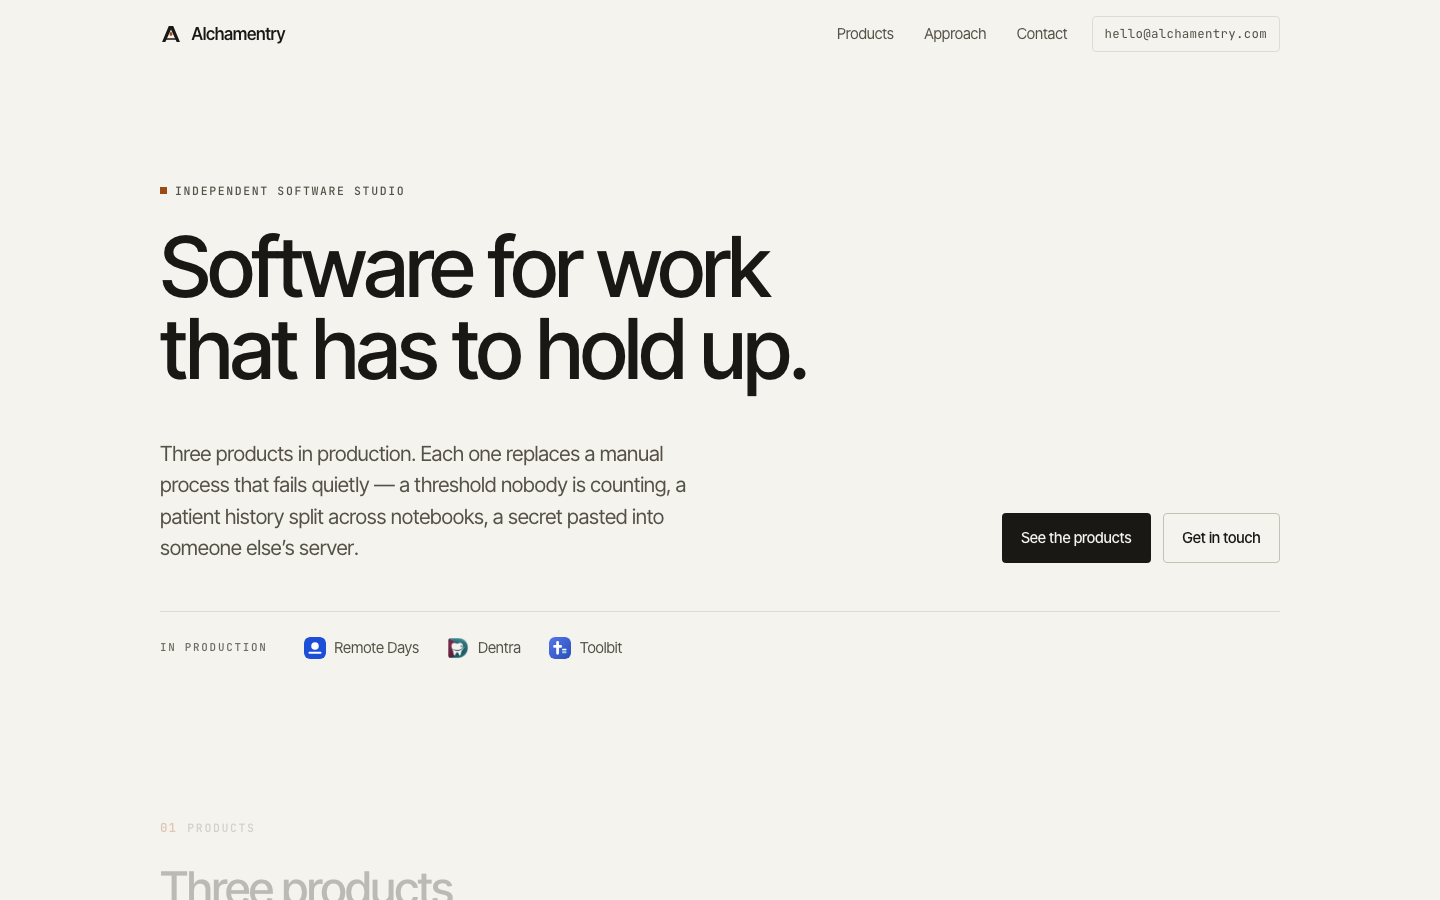
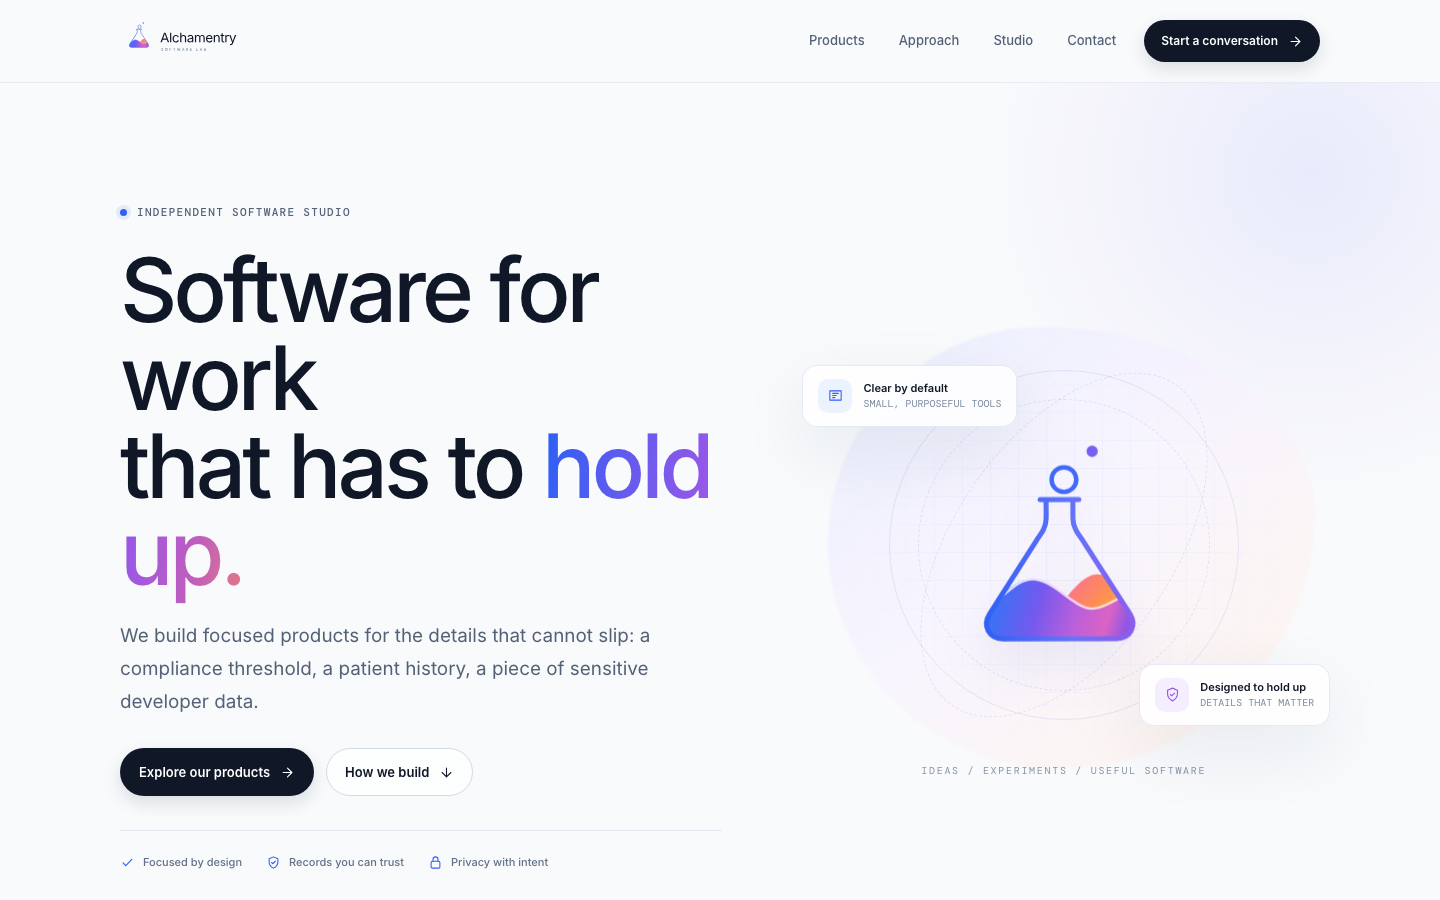
Refresh the README previews and tidy two stale comments

diff --git a/src/404.html b/src/404.html
@@ -11,8 +11,8 @@
   <link rel="stylesheet" href="/assets/css/site.css">
 </head>
 <body>
-  <!-- Built only from classes the homepage already defines, so this page adds
-       no CSS of its own — and no inline <style>, which the CSP would block. -->
+  <!-- Built only from classes the homepage already defines, so this page adds no
+       CSS of its own — and nothing inline, which the CSP would block anyway. -->
   <main id="main">
     <section class="studio-section">
       <div class="container">
